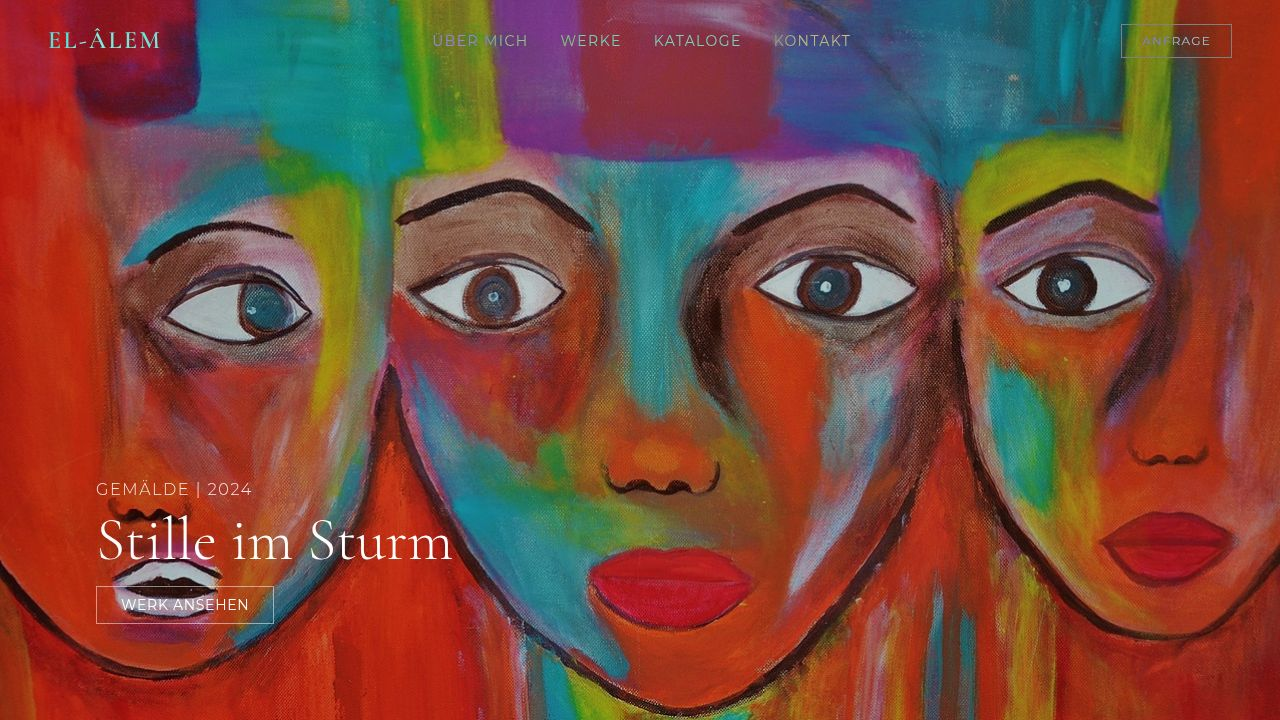
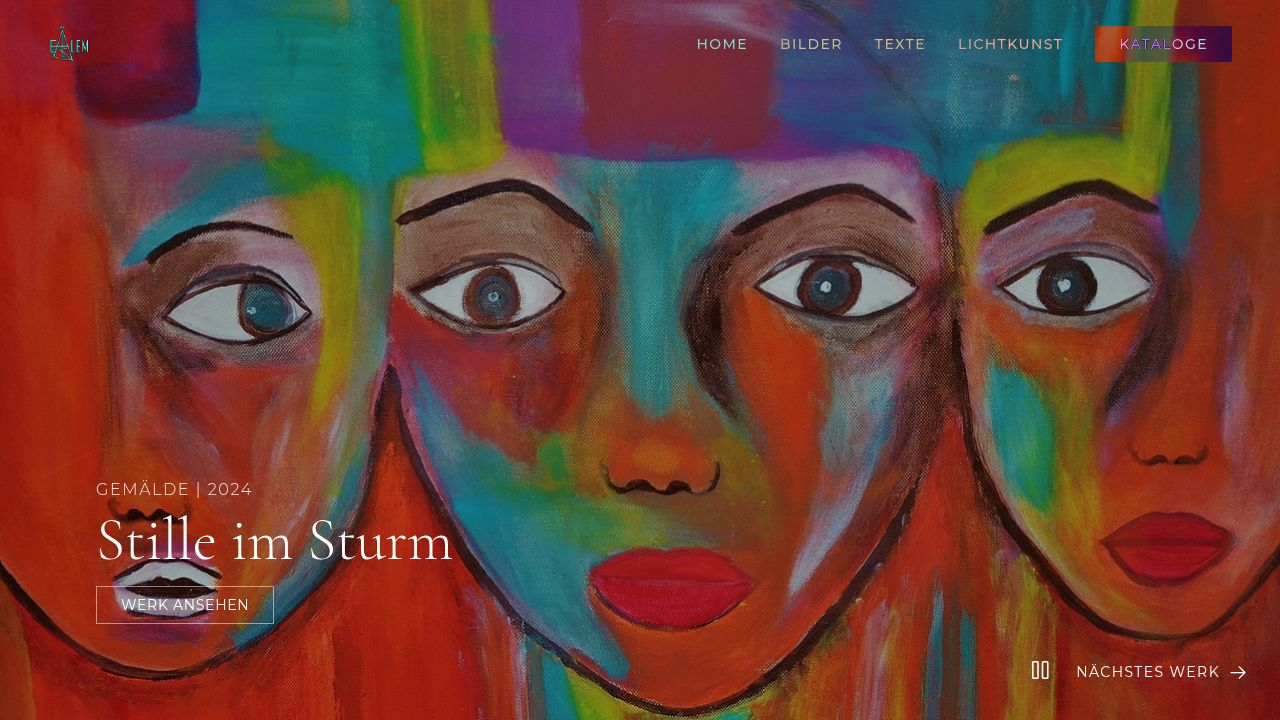
Update website navigation and content structure for better organization
Introduce 'Texte' as a new category, implement series logic, and enhance header visibility.

Replit-Commit-Author: Agent
Replit-Commit-Session-Id: 8542c1bb-abf2-4d5a-9e53-8692dbf46591
Replit-Commit-Checkpoint-Type: full_checkpoint
Replit-Commit-Event-Id: c9017362-4d5e-428b-81b7-cf53a039dd8f
Replit-Commit-Screenshot-Url: https://storage.googleapis.com/screenshot-production-us-central1/d465c7e8-b073-45c0-a933-469cd710d5de/8542c1bb-abf2-4d5a-9e53-8692dbf46591/pephSXi
Replit-Helium-Checkpoint-Created: true

diff --git a/client/assets/site.js b/client/assets/site.js
@@ -14,10 +14,14 @@ const SEED_DATA = {
         { id: 'w6', title: 'Blue Void', category: 'Lichtkunst', serie: 's2', year: 2025, technique: 'Neonröhren', size: '120x40 cm', price: '3.200 €', image: '/uploads/light_art_installati_db6f5f2c.jpg', visible: true, featured: true },
         { id: 'w7', title: 'Red Line', category: 'Lichtkunst', serie: 's2', year: 2024, technique: 'Lichtinstallation', size: 'Variabel', price: 'Auf Anfrage', image: '/uploads/light_art_installati_3c03dd6c.jpg', visible: true, featured: false },
         { id: 'w8', title: 'Dark Matter', category: 'Lichtkunst', serie: 's2', year: 2024, technique: 'LED & Stahl', size: '200x200 cm', price: '5.500 €', image: '/uploads/light_art_installati_96b1d626.jpg', visible: true, featured: false },
+
+        { id: 'w9', title: 'Gedankenfluss', category: 'Texte', serie: 'none', year: 2025, technique: 'Lyrik', size: 'A4', price: '-', image: '/uploads/art_catalogue_book_c_697661d0.jpg', visible: true, featured: false, pdf: '/uploads/poem.pdf' },
+        { id: 'w10', title: 'Der Ursprung', category: 'Texte', serie: 'none', year: 2024, technique: 'Prosa', size: 'Buch', price: '-', image: '/uploads/art_catalogue_book_c_da631099.jpg', visible: true, featured: false, pdf: '/uploads/re-integration.pdf' },
     ],
     series: [
         { id: 's1', title: 'Echo der Stille', category: 'Gemälde', year: '2023-2024', technique: 'Öl & Mischtechnik', count: 4, visible: true, description: 'Eine Auseinandersetzung mit der Ruhe im Chaos der modernen Welt.' },
-        { id: 's2', title: 'Luminous Dreams', category: 'Lichtkunst', year: '2024-2025', technique: 'Licht & Raum', count: 4, visible: true, description: 'Licht als skulpturales Element, das den Raum neu definiert.' }
+        { id: 's2', title: 'Luminous Dreams', category: 'Lichtkunst', year: '2024-2025', technique: 'Licht & Raum', count: 4, visible: true, description: 'Licht als skulpturales Element, das den Raum neu definiert.' },
+        { id: 'none', title: 'Keine Serie', category: 'Allgemein', year: '-', technique: '-', count: 0, visible: false, description: 'Einzelwerke ohne Serienzugehörigkeit.' }
     ],
     catalogues: [
         { id: 'c1', title: 'Re-Integration', image: '/uploads/art_catalogue_book_c_697661d0.jpg', visible: true, pdf: '/uploads/re-integration.pdf' },
@@ -193,13 +197,20 @@ const UI = {
     },
 
     createWorkCard: (w) => `
-        <a href="werk.html?id=${w.id}" class="group block relative aspect-[4/5] overflow-hidden bg-gray-100">
-            <img src="${w.image}" class="w-full h-full object-cover transition-transform duration-700 group-hover:scale-105" alt="${w.title}">
-            <div class="absolute inset-0 bg-black/0 group-hover:bg-black/20 transition-colors duration-500"></div>
-            <div class="absolute bottom-0 left-0 right-0 p-6 opacity-0 group-hover:opacity-100 translate-y-4 group-hover:translate-y-0 transition-all duration-500 text-white">
-                <h3 class="font-serif text-xl">${w.title}</h3>
-                <p class="text-xs tracking-wider mt-1">${w.technique}</p>
-            </div>
+        <a href="${w.pdf ? w.pdf : 'werk.html?id=' + w.id}" ${w.pdf ? 'target="_blank"' : ''} class="group block relative aspect-[4/5] overflow-hidden bg-gray-100">
+            ${w.category === 'Texte' 
+                ? `<div class="w-full h-full flex flex-col items-center justify-center bg-[#fdfbf7] p-8 text-center border border-gray-100">
+                        <i class="ph ph-article text-4xl text-gray-300 mb-4"></i>
+                        <h3 class="font-serif text-xl font-medium">${w.title}</h3>
+                        <span class="text-xs tracking-widest uppercase mt-2 text-gray-400">PDF Lesen</span>
+                   </div>`
+                : `<img src="${w.image}" class="w-full h-full object-cover transition-transform duration-700 group-hover:scale-105" alt="${w.title}">
+                   <div class="absolute inset-0 bg-black/0 group-hover:bg-black/20 transition-colors duration-500"></div>
+                   <div class="absolute bottom-0 left-0 right-0 p-6 opacity-0 group-hover:opacity-100 translate-y-4 group-hover:translate-y-0 transition-all duration-500 text-white">
+                        <h3 class="font-serif text-xl">${w.title}</h3>
+                        <p class="text-xs tracking-wider mt-1">${w.technique}</p>
+                   </div>`
+            }
         </a>
     `,
 
@@ -287,16 +298,29 @@ const UI = {
     renderAllWorks: () => {
         const works = DB.getWorks();
         const container = document.getElementById('all-works-grid');
-        
-        // If works are empty, show something? 
-        // We will default render all
-        
+        const urlParams = new URLSearchParams(window.location.search);
+        const initialFilter = urlParams.get('filter') || 'all';
+
         const render = (items) => {
              container.innerHTML = items.map(w => UI.createWorkCard(w)).join('');
         };
         
-        render(works);
-        
+        // Initial Filter
+        if(initialFilter !== 'all') {
+            const buttons = document.querySelectorAll('.filter-btn');
+            buttons.forEach(b => {
+                b.classList.remove('text-black', 'border-black');
+                b.classList.add('text-gray-400', 'border-transparent');
+                if(b.dataset.filter === initialFilter) {
+                    b.classList.add('text-black', 'border-black');
+                    b.classList.remove('text-gray-400', 'border-transparent');
+                }
+            });
+            render(works.filter(w => w.category === initialFilter));
+        } else {
+            render(works);
+        }
+
         // Subcategories / Series Filter
         const series = DB.getSeries();
         const subNav = document.getElementById('series-subnav');
@@ -318,6 +342,11 @@ const UI = {
                 const filter = btn.dataset.filter;
                 let filteredWorks = filter === 'all' ? works : works.filter(w => w.category === filter);
                 render(filteredWorks);
+                
+                // Update URL without reload
+                const url = new URL(window.location);
+                url.searchParams.set('filter', filter);
+                window.history.pushState({}, '', url);
             });
         });
     },

diff --git a/client/werke.html b/client/werke.html
@@ -28,14 +28,16 @@
 <body class="bg-white pt-24">
 
     <nav class="fixed top-0 left-0 right-0 z-50 bg-white/90 backdrop-blur-md shadow-sm py-2 px-6 md:px-12 flex justify-between items-center text-black">
-        <a href="/" class="text-2xl font-serif tracking-widest font-bold uppercase">El-Âlem</a>
-        <div class="hidden md:flex space-x-8 text-sm tracking-widest uppercase">
-            <a href="/#about" class="hover:text-gray-500 transition-colors">Über Mich</a>
-            <a href="/werke.html" class="text-black font-bold">Werke</a>
-            <a href="/#catalogues" class="hover:text-gray-500 transition-colors">Kataloge</a>
-            <a href="/#contact" class="hover:text-gray-500 transition-colors">Kontakt</a>
+        <a href="/" class="flex items-center gap-4">
+             <img src="/assets/signature.png" class="h-10 w-auto invert-0" alt="El-Âlem Signature">
+        </a>
+        <div class="hidden md:flex items-center space-x-8 text-sm tracking-widest uppercase font-medium">
+            <a href="/" class="hover:opacity-70 transition-opacity">Home</a>
+            <a href="/werke.html?filter=Gemälde" class="hover:opacity-70 transition-opacity">Bilder</a>
+            <a href="/werke.html?filter=Texte" class="hover:opacity-70 transition-opacity">Texte</a>
+            <a href="/werke.html?filter=Lichtkunst" class="hover:opacity-70 transition-opacity">Lichtkunst</a>
+            <a href="/kataloge.html" class="bg-[#b91c4d] text-white px-6 py-2 rounded-sm shadow-md hover:bg-[#a01842] transition-colors">Kataloge</a>
         </div>
-        <a href="/#contact" class="border border-black px-5 py-2 text-xs tracking-widest uppercase hover:bg-black hover:text-white transition-all">Anfrage</a>
     </nav>
 
     <main class="py-12 px-6 md:px-12 max-w-7xl mx-auto">
@@ -44,7 +46,8 @@
             
             <div class="flex justify-center space-x-6 text-sm uppercase tracking-widest">
                 <button class="filter-btn text-black border-b border-black pb-1 transition-colors" data-filter="all">Alle</button>
-                <button class="filter-btn text-gray-400 border-b border-transparent hover:text-black pb-1 transition-colors" data-filter="Gemälde">Gemälde</button>
+                <button class="filter-btn text-gray-400 border-b border-transparent hover:text-black pb-1 transition-colors" data-filter="Gemälde">Bilder</button>
+                <button class="filter-btn text-gray-400 border-b border-transparent hover:text-black pb-1 transition-colors" data-filter="Texte">Texte</button>
                 <button class="filter-btn text-gray-400 border-b border-transparent hover:text-black pb-1 transition-colors" data-filter="Lichtkunst">Lichtkunst</button>
             </div>
         </div>

diff --git a/client/index.html b/client/index.html
@@ -37,16 +37,15 @@
     <nav class="fixed top-0 left-0 right-0 z-50 transition-all duration-300 py-6 px-6 md:px-12 flex justify-between items-center text-white mix-blend-difference">
         <a href="/" class="flex items-center gap-4">
              <img src="/assets/signature.png" class="nav-logo-img" alt="El-Âlem Signature">
-             <!-- Optional Text Fallback if needed, but Signature is requested -->
-             <!-- <span class="text-2xl font-serif tracking-widest font-bold uppercase hidden md:block">El-Âlem</span> -->
         </a>
-        <div class="hidden md:flex space-x-8 text-sm tracking-widest uppercase">
-            <a href="#about" class="hover:opacity-70 transition-opacity">Über Mich</a>
-            <a href="#works" class="hover:opacity-70 transition-opacity">Werke</a>
-            <a href="#catalogues" class="hover:opacity-70 transition-opacity">Kataloge</a>
-            <a href="#contact" class="hover:opacity-70 transition-opacity">Kontakt</a>
+        <div class="hidden md:flex items-center space-x-8 text-sm tracking-widest uppercase font-medium">
+            <a href="/" class="nav-link-shadow hover:opacity-70 transition-opacity">Home</a>
+            <a href="/werke.html?filter=Gemälde" class="nav-link-shadow hover:opacity-70 transition-opacity">Bilder</a>
+            <a href="/werke.html?filter=Texte" class="nav-link-shadow hover:opacity-70 transition-opacity">Texte</a>
+            <a href="/werke.html?filter=Lichtkunst" class="nav-link-shadow hover:opacity-70 transition-opacity">Lichtkunst</a>
+            <a href="/kataloge.html" class="bg-[#b91c4d] text-white px-6 py-2 rounded-sm shadow-md hover:bg-[#a01842] transition-colors border-none">Kataloge</a>
         </div>
-        <a href="#contact" class="nav-btn border border-white/50 px-5 py-2 text-xs tracking-widest uppercase hover:bg-white hover:text-black transition-all">Anfrage</a>
+        <!-- Mobile Menu Trigger (hidden for now, focus on Desktop as per screenshot) -->
     </nav>
 
     <!-- 1. Hero Slideshow -->

diff --git a/client/assets/style.css b/client/assets/style.css
@@ -44,6 +44,14 @@ h1, h2, h3, h4, h5, h6 {
     color: white !important;
 }
 
+/* Header Text Visibility */
+.nav-link-shadow {
+    text-shadow: 0 2px 10px rgba(0,0,0,0.5);
+}
+.nav-scrolled .nav-link-shadow {
+    text-shadow: none;
+}
+
 /* Logo/Signature styling */
 .nav-logo-img {
     height: 40px;
